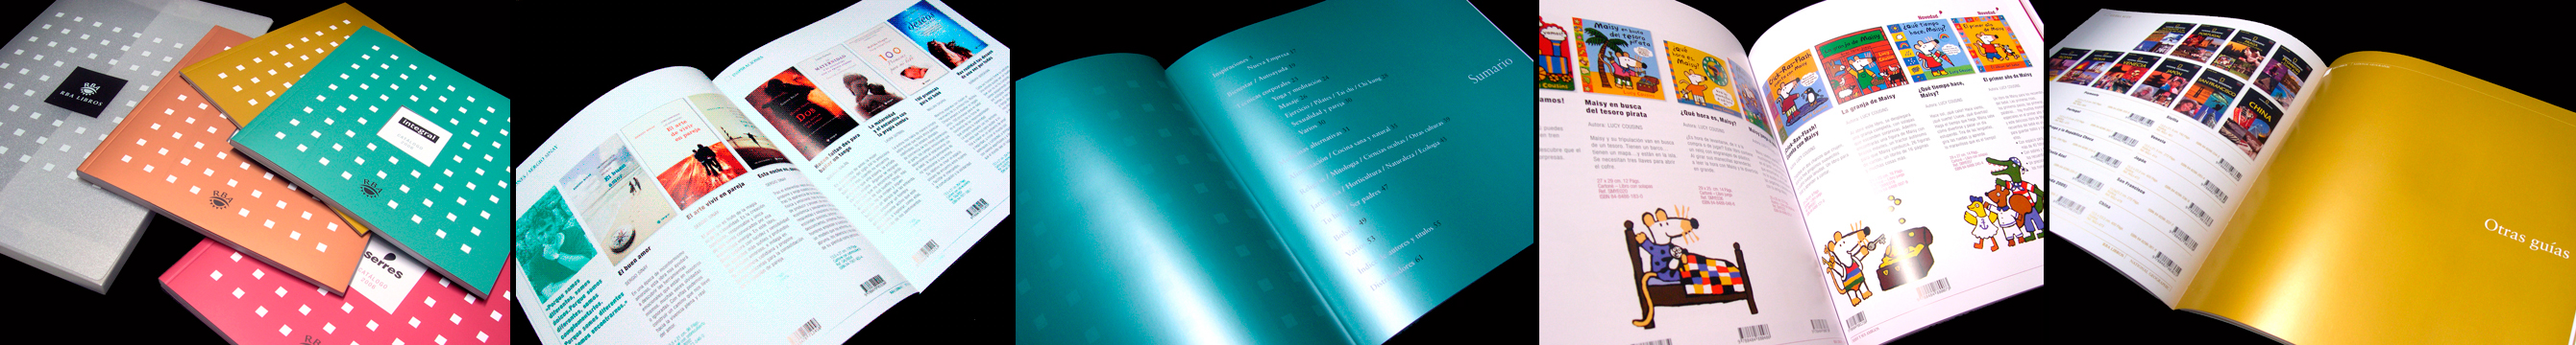
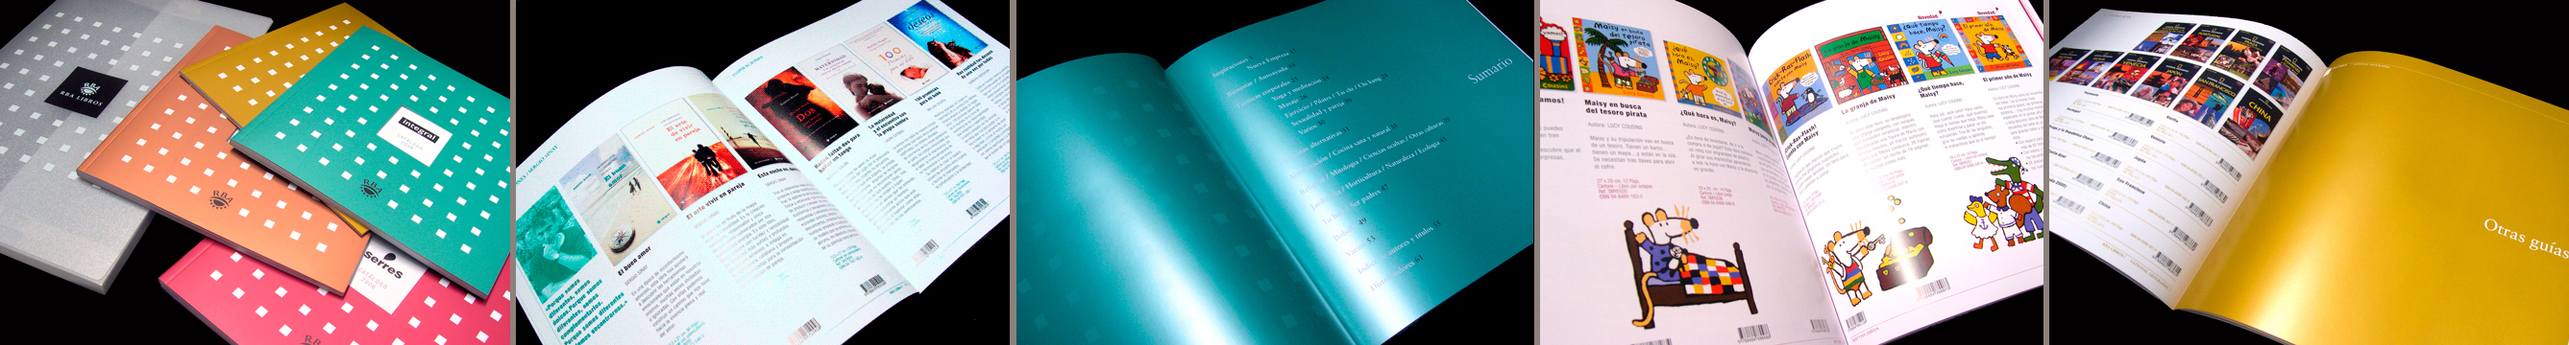
Imatges i texts nous

diff --git a/css/Enric.css b/css/Enric.css
@@ -207,7 +207,7 @@ margin-left: 57px;
 }
 #main tr.images .space {
 	min-width: 20px;
-	background-color: white;
+	background-color: #928782;
 	height: 340px;
 }
 #main tr.images img {
